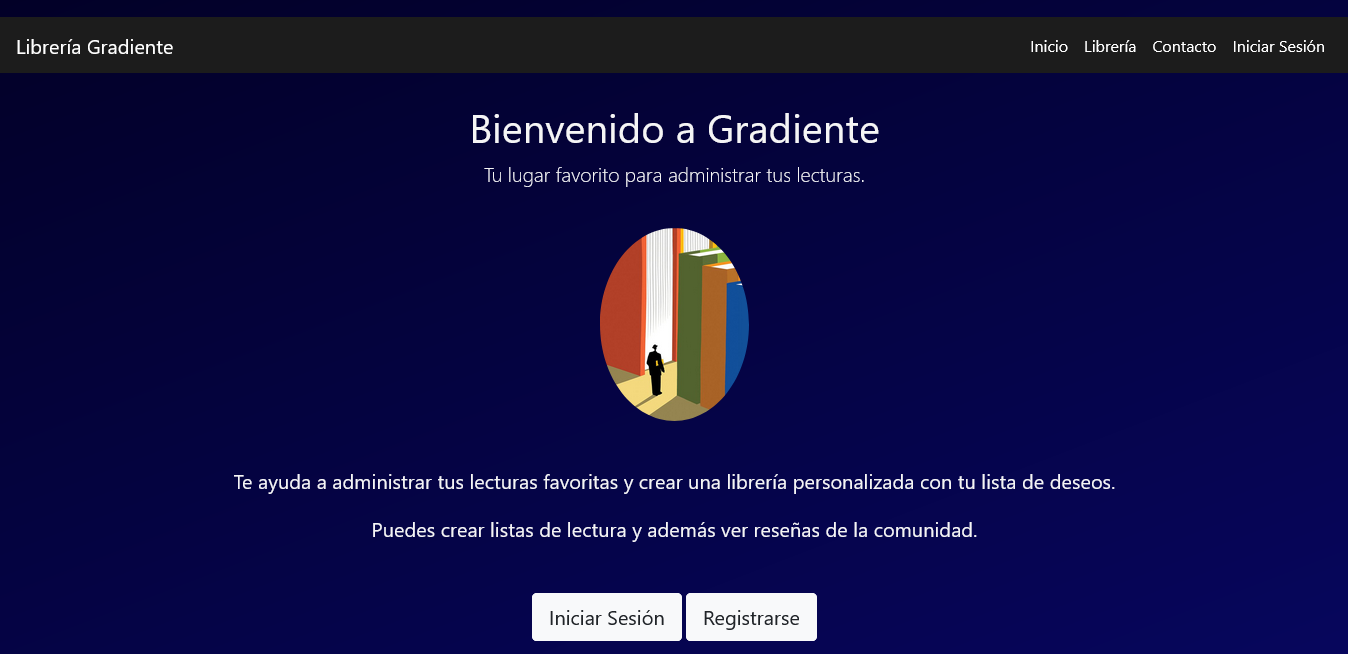
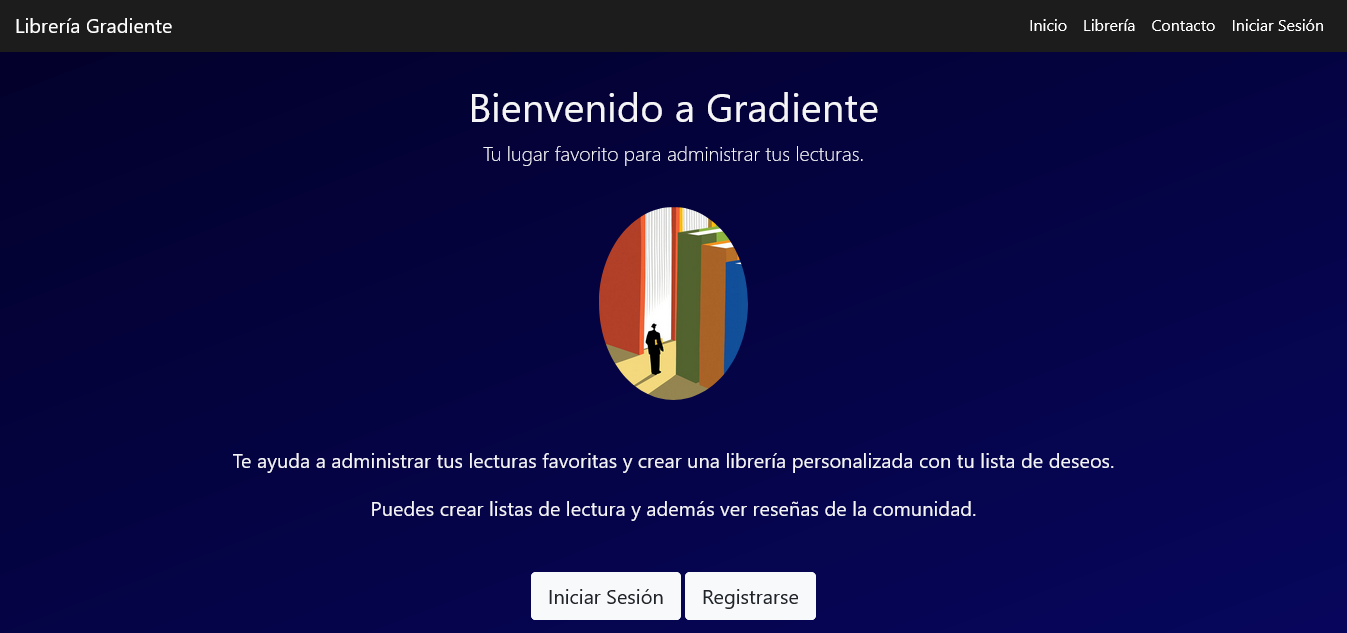
gradiente3.2

diff --git a/css/style.css b/css/style.css
@@ -1,12 +1,23 @@
-html{
-    height: 270vh;
-
+html, body {
+    margin: 0;
+    padding: 0;
+    height: 100%; /* Asegura que el html y body ocupen al menos toda la altura de la ventana del navegador */
 }
-body{
-	font-family: 'Montserrat', sans-serif;
+
+body {
+    font-family: 'Montserrat', sans-serif;
     background: rgb(142,155,163);
     background: linear-gradient(184deg, rgba(142,155,163,1) 0%, rgba(137,200,240,1) 50%, rgba(70,137,179,1) 100%);
-	font-weight: 400;
+    font-weight: 400;
+    background-repeat: no-repeat; /* Evita que el fondo se repita */
+    background-attachment: fixed; /* Mantiene el fondo fijo al hacer scroll */
+    background-size: cover; /* Asegura que el fondo cubra toda la página */
+}
+
+figure {
+	display: block;
+	text-align: center;
+	margin: 0 auto;
 }
 h2{
 	color: #787878;

diff --git a/libreria_gradiente.html b/libreria_gradiente.html
@@ -172,7 +172,7 @@
             </li>
             <figure>
                 <!-- Aquí colocas la imagen que deseas -->
-                <img src="media/Gradiente1.png" alt="Imagen de bienvenida a gradiente" style="width:auto; width:70%;">
+                <img src="media/Gradiente1.png" alt="Imagen de bienvenida a gradiente" style="width:auto; width:80%;">
             
                 <!-- Aquí escribes el pie de imagen -->
                 <figcaption>Esta es la primera vista de gradiente, cuenta con una breve descripción y
